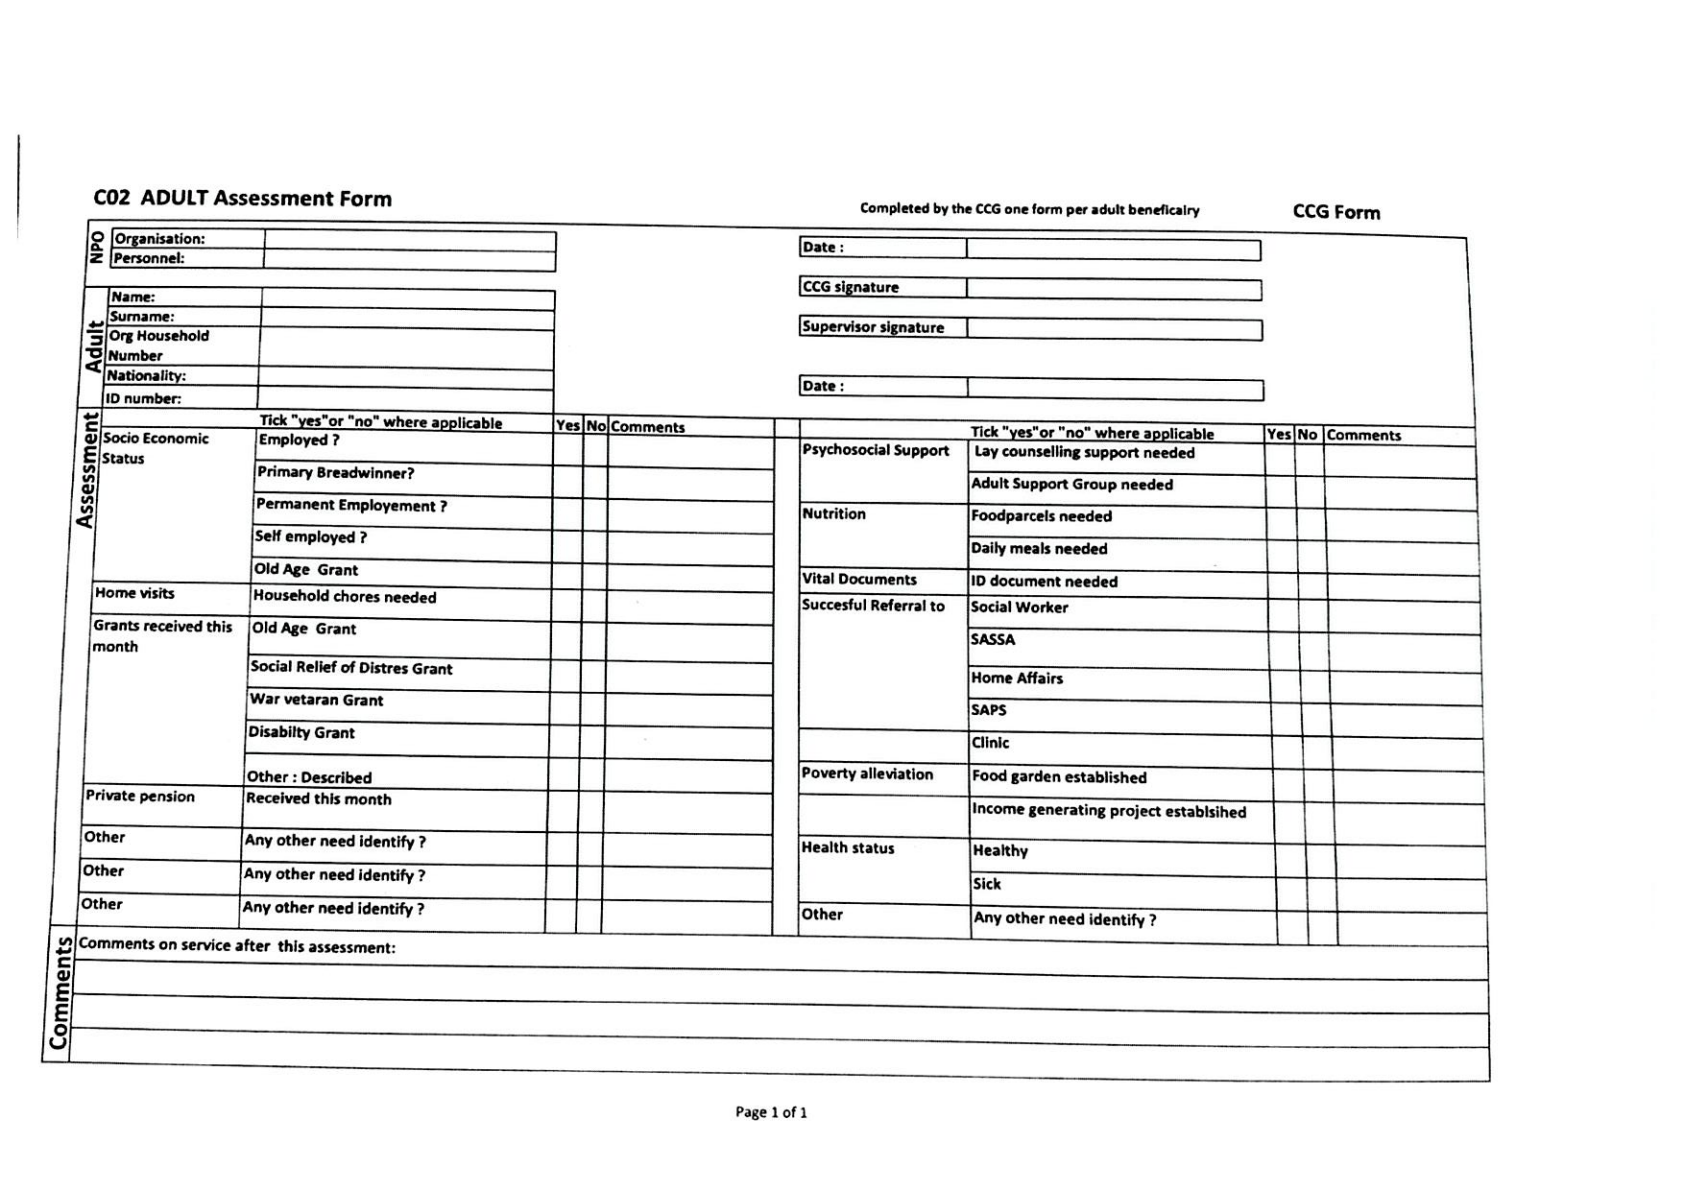
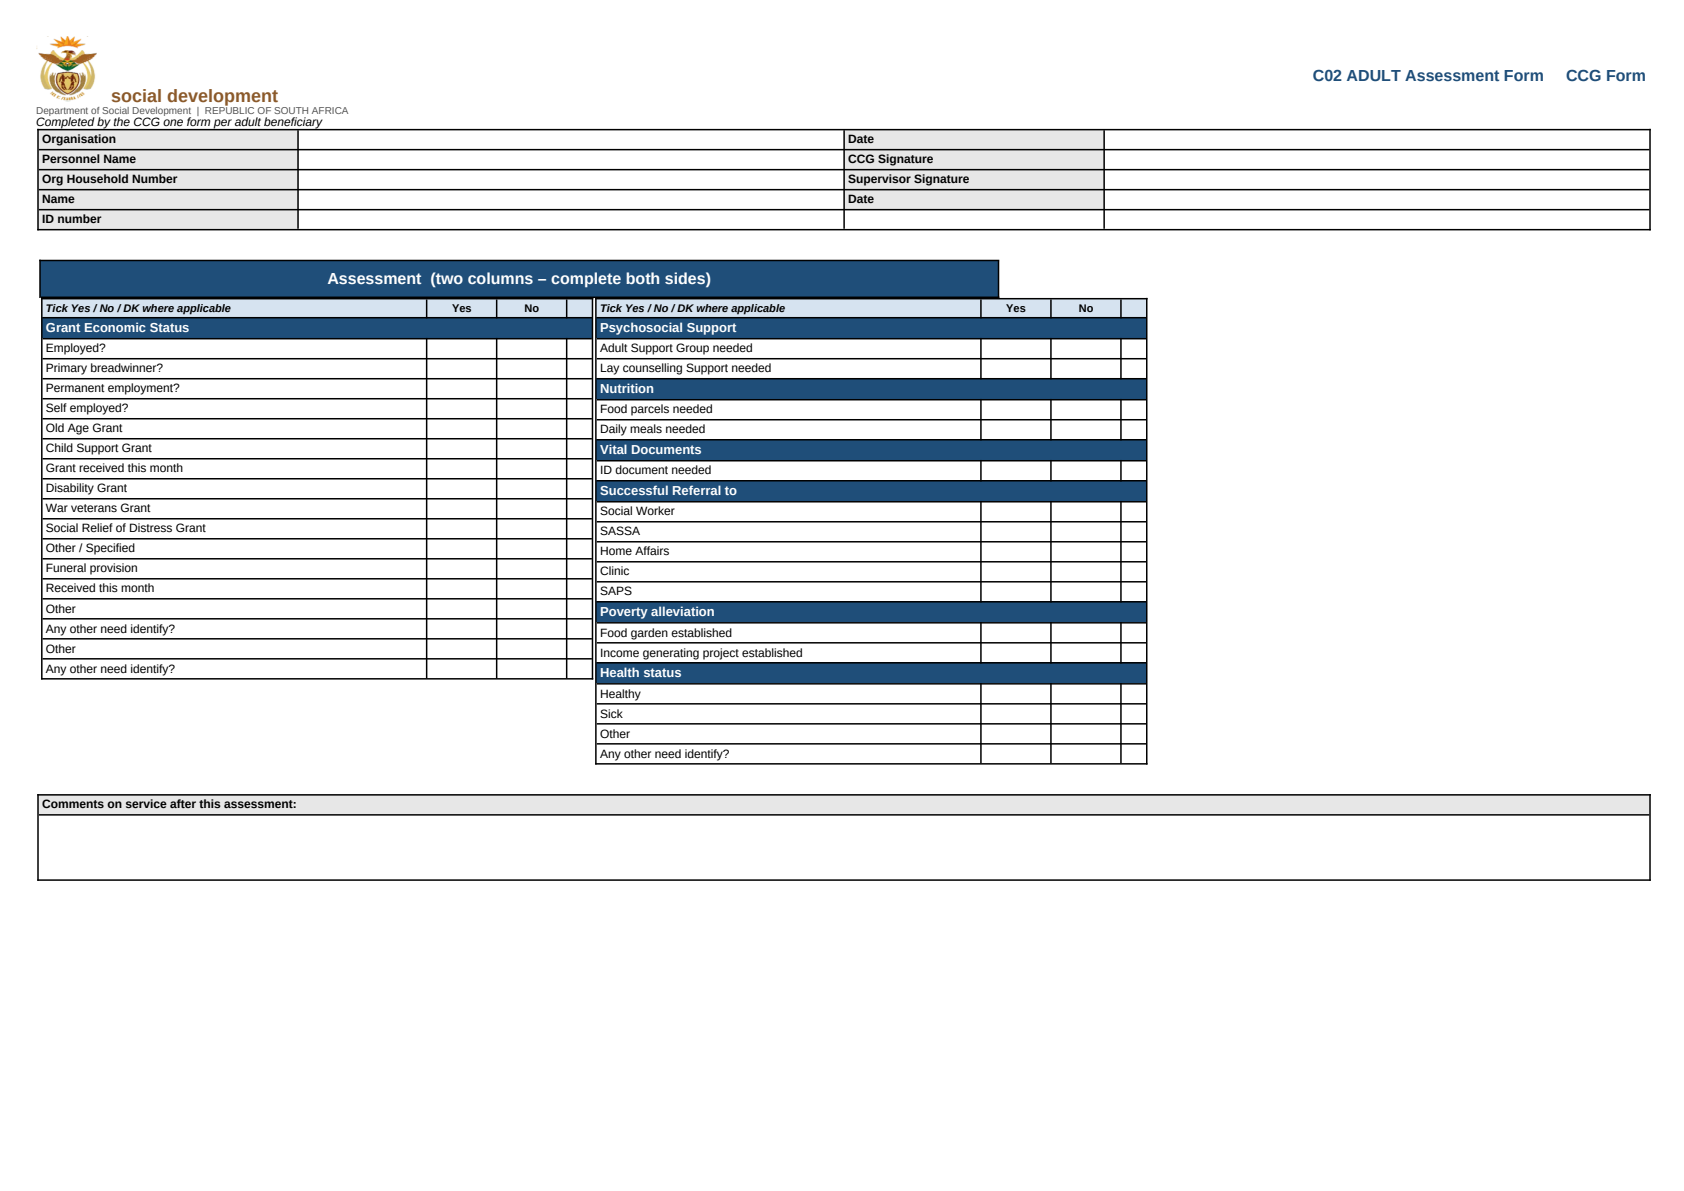
Phase 2 C02: Official Word Adult Assessment replaces NPO PDF
Print fills C02_Adult_Assessment_Form.docx; scan blanks and atlas geometry
come from that Word render. Assessment Yes/No/DK ticks stay for a later pass.

diff --git a/frontend/src/lib/print.js b/frontend/src/lib/print.js
@@ -11,6 +11,7 @@ export const DSD_FORMS = [
   { key: "full", label: "Full Case File", group: "Case file" },
   { key: "checklist", label: "Case File Checklist", group: "Case file" },
   { key: "c01", label: "C01 Household Details", group: "Intake & assessment" },
+  { key: "c02", label: "C02 Adult Assessment", group: "Intake & assessment" },
   { key: "intake", label: "CW 05 Intake Form", group: "Intake & assessment" },
   { key: "reporter", label: "CW 02 Reporter Form", group: "Intake & assessment" },
   { key: "assessment", label: "CW 09 Assessment, Planning & Contracting", group: "Intake & assessment" },

diff --git a/backend/core/word_forms.py b/backend/core/word_forms.py
@@ -1,7 +1,8 @@
 """Fill official DSD Word templates. Do not overlay the NPO PDF.
 
 The NPO case-management PDF is a file-order guide only. Print for C01 writes
-into ``docs/official/dsd-source/Official_C01_Template.docx``.
+into ``docs/official/dsd-source/Official_C01_Template.docx``. Print for C02
+writes into ``docs/official/dsd-source/C02_Adult_Assessment_Form.docx``.
 """
 from __future__ import annotations
 
@@ -9,9 +10,11 @@ from io import BytesIO
 from pathlib import Path
 
 from docx import Document
+from docx.table import _Cell
 
 REPO_ROOT = Path(__file__).resolve().parents[2]
 OFFICIAL_C01 = REPO_ROOT / 'docs' / 'official' / 'dsd-source' / 'Official_C01_Template.docx'
+OFFICIAL_C02 = REPO_ROOT / 'docs' / 'official' / 'dsd-source' / 'C02_Adult_Assessment_Form.docx'
 
 EMPTY_BOX = '☐'
 MARKED_BOX = '☑'
@@ -19,6 +22,15 @@ MARKED_BOX = '☑'
 
 def official_c01_path() -> Path:
     return OFFICIAL_C01
+
+
+def official_c02_path() -> Path:
+    return OFFICIAL_C02
+
+
+def _tc_cell(table, row_index: int, cell_index: int) -> _Cell:
+    """Return the real cell at (row, col) via XML — row.cells lies on C02 merges."""
+    return _Cell(table.rows[row_index]._tr.tc_lst[cell_index], table)
 
 
 def _clear_cell(cell, text: str = ''):
@@ -254,11 +266,61 @@ def fill_c01_docx(values: dict | None = None, template_path: Path | None = None)
     return buf.getvalue()
 
 
+def _adult_display_name(values: dict) -> str:
+    name = (values.get('caregiver.name') or '').strip()
+    surname = (values.get('caregiver.surname') or '').strip()
+    return ' '.join(part for part in (name, surname) if part)
+
+
+def _fill_c02_header(table, values: dict):
+    """Identity header on C02_Adult_Assessment_Form.docx (table 1)."""
+    org = (
+        values.get('__display.organisation')
+        or values.get('organisation.name')
+        or ''
+    )
+    personnel = values.get('__display.personnel') or ''
+    org_hh = values.get('household.org_household_number') or ''
+    full_name = _adult_display_name(values)
+    id_number = values.get('caregiver.id_number') or ''
+
+    _clear_cell(_tc_cell(table, 0, 1), org)
+    _clear_cell(_tc_cell(table, 1, 1), personnel)
+    _clear_cell(_tc_cell(table, 2, 1), org_hh)
+    _clear_cell(_tc_cell(table, 3, 1), full_name)
+    _clear_cell(_tc_cell(table, 4, 1), id_number)
+
+
+def fill_c02_docx(values: dict | None = None, template_path: Path | None = None) -> bytes:
+    """Return a filled Official C02 .docx (bytes) from atlas-style values.
+
+    Assessment Yes/No/DK grids stay blank for staff to tick on paper / later
+    atlas work. Identity header is filled from the caregiver file.
+    """
+    path = Path(template_path or official_c02_path())
+    if not path.exists():
+        raise FileNotFoundError(f'Official C02 template missing: {path}')
+    values = values or {}
+    doc = Document(str(path))
+    if len(doc.tables) < 2:
+        raise ValueError('Official C02 template does not have the expected header table')
+    _fill_c02_header(doc.tables[1], values)
+    buf = BytesIO()
+    doc.save(buf)
+    return buf.getvalue()
+
+
 def values_from_household(household) -> dict:
     """Atlas-style values plus free-text fields the Word sheet needs."""
     from .form_io import values_for_household
+    from .models import Organisation
 
     values = values_for_household(household)
+    org = Organisation.objects.first()
+    if org and not values.get('__display.organisation'):
+        values['__display.organisation'] = org.name or 'Sebueng Itumeleng'
+    elif not values.get('__display.organisation'):
+        values['__display.organisation'] = 'Sebueng Itumeleng'
     cg = getattr(household, 'caregiver', None)
     if cg:
         mapping = {

diff --git a/backend/core/tests/test_word_c02.py b/backend/core/tests/test_word_c02.py
@@ -1,0 +1,80 @@
+"""Phase 1–2: Official C02 prints as filled Word; blanks from the Word template."""
+from io import BytesIO
+from pathlib import Path
+
+from django.contrib.auth.models import Group, User
+from django.test import TestCase
+from docx import Document
+from docx.table import _Cell
+from rest_framework.authtoken.models import Token
+from rest_framework.test import APIClient
+
+from core.form_atlas import ATLAS_FORMS, fields_for
+from core.official_blanks import ATLAS_VERSION, blank_info
+from core.word_forms import fill_c02_docx, official_c02_path
+
+MOHOLOZA_C02 = {
+    '__display.organisation': 'Sebueng Itumeleng',
+    '__display.personnel': 'Kelebogile Maraba',
+    'household.org_household_number': '472',
+    'caregiver.name': 'Sisi Lettie',
+    'caregiver.surname': 'Moholoza',
+    'caregiver.id_number': '6511010326080',
+}
+
+
+class FillOfficialC02Tests(TestCase):
+    def test_template_file_is_present(self):
+        self.assertTrue(official_c02_path().exists())
+
+    def test_moholoza_identity_fills_the_word_header(self):
+        raw = fill_c02_docx(MOHOLOZA_C02)
+        doc = Document(BytesIO(raw))
+        table = doc.tables[1]
+        self.assertEqual(_Cell(table.rows[0]._tr.tc_lst[1], table).text.strip(), 'Sebueng Itumeleng')
+        self.assertEqual(_Cell(table.rows[1]._tr.tc_lst[1], table).text.strip(), 'Kelebogile Maraba')
+        self.assertEqual(_Cell(table.rows[2]._tr.tc_lst[1], table).text.strip(), '472')
+        self.assertEqual(_Cell(table.rows[3]._tr.tc_lst[1], table).text.strip(), 'Sisi Lettie Moholoza')
+        self.assertEqual(_Cell(table.rows[4]._tr.tc_lst[1], table).text.strip(), '6511010326080')
+
+
+class PrintC02WordTests(TestCase):
+    def setUp(self):
+        Group.objects.get_or_create(name='admin')
+        self.user = User.objects.create_user('c02printer', password='x')
+        self.user.groups.add(Group.objects.get(name='admin'))
+        self.client = APIClient()
+        self.client.credentials(HTTP_AUTHORIZATION=f'Token {Token.objects.create(user=self.user).key}')
+
+    def test_print_c02_downloads_a_docx_not_pdf_canvas(self):
+        created = self.client.post('/api/households/', {'town': 'Westonaria'}, format='json')
+        hid = created.data['id']
+        self.client.patch(
+            f'/api/households/{hid}/',
+            {'org_household_number': '472'},
+            format='json',
+        )
+        token = Token.objects.get(user=self.user).key
+        response = self.client.get(f'/api/print/c02/?household_id={hid}&token={token}')
+        self.assertEqual(response.status_code, 200)
+        self.assertIn(
+            'application/vnd.openxmlformats-officedocument.wordprocessingml.document',
+            response['Content-Type'],
+        )
+        self.assertNotIn(b'official-payload', response.content)
+        doc = Document(BytesIO(response.content))
+        self.assertGreaterEqual(len(doc.tables), 2)
+
+
+class C02WordAtlasTests(TestCase):
+    def test_c02_uses_word_geometry_and_blank(self):
+        self.assertEqual(ATLAS_FORMS['c02']['geometry'], 'word')
+        info = blank_info('c02', 0)
+        self.assertEqual(info.get('source'), 'docx')
+        self.assertIn('C02_Adult_Assessment_Form.docx', info.get('source_docx') or '')
+        self.assertIn('word-c01-c02', ATLAS_VERSION)
+        targets = {f['target'] for f in fields_for('c02')}
+        self.assertIn('caregiver.name', targets)
+        self.assertIn('caregiver.id_number', targets)
+        self.assertIn('household.org_household_number', targets)
+        self.assertNotIn('caregiver.nationality', targets)

diff --git a/backend/core/form_atlas.py b/backend/core/form_atlas.py
@@ -1,8 +1,8 @@
 """One field atlas for fill, print, and Scan Intake.
 
 Boxes are normalised 0–1 on the official blank PNG (same file print uses).
-C01 geometry is measured on Official_C01_Template.docx blanks. Other forms
-still use the NPO PDF blanks. Do not rename field labels.
+C01 and C02 geometry is measured on Official Word blanks. Other forms still
+use the NPO PDF blanks. Do not rename field labels.
 """
 from functools import lru_cache
 
@@ -34,9 +34,10 @@ ATLAS_FORMS = {
         'official_title': 'C02 ADULT Assessment Form',
         'header': 'ccg',
         'orientation': 'landscape',
-        'keywords': ['C02', 'C 02', 'ADULT ASSESSMENT', 'CCG FORM'],
+        'keywords': ['C02', 'C 02', 'ADULT ASSESSMENT', 'ADULT Assessment', 'CCG FORM'],
         'checklist_item': ('intake_form', 'C02'),
-        'geometry': 'pdf',
+        # Boxes measured on C02_Adult_Assessment_Form.docx blank PNG (scale 2.0).
+        'geometry': 'word',
         'identity_only': True,
         # C02 is the adult assessment of the C01 head of household
         # (caregiver), not an extra member. Other adults already sit on
@@ -375,19 +376,19 @@ def _build_fields():
         _f('__display.personnel', 'Name', 1, (0.0369, 0.1229, 0.3518, 0.1425), 'printed'),
     ]
 
+    # C02 identity header measured on C02_Adult_Assessment_Form.docx blank
+    # (scale 2.0). Word has one Name cell (given + surname written together).
     c02 = [
         _f('__display.organisation', 'Organisation', 0,
-           _inset((0.1574, 0.2090, 0.3290, 0.2261), 0.04, 0.16), 'printed'),
-        _f('caregiver.name', 'Name', 0,
-           _inset((0.1574, 0.2429, 0.3290, 0.2597), 0.04, 0.16), 'handwrite'),
-        _f('caregiver.surname', 'Surname', 0,
-           _inset((0.1556, 0.2589, 0.3290, 0.2765), 0.04, 0.16), 'handwrite'),
+           _word_cell((0.1150, 0.1100, 0.4900, 0.1270)), 'printed'),
+        _f('__display.personnel', 'Personnel Name', 0,
+           _word_cell((0.1150, 0.1270, 0.4900, 0.1440)), 'printed'),
         _f('household.org_household_number', 'Org Household Number', 0,
-           _inset((0.1544, 0.2757, 0.3284, 0.3102), 0.04, 0.12), 'printed'),
-        _f('caregiver.nationality', 'Nationality', 0,
-           _inset((0.1544, 0.3093, 0.3278, 0.3262), 0.04, 0.16), 'handwrite'),
+           _word_cell((0.1150, 0.1440, 0.4900, 0.1600)), 'printed'),
+        _f('caregiver.name', 'Name', 0,
+           _word_cell((0.1150, 0.1600, 0.4900, 0.1770)), 'handwrite'),
         _id_cells('caregiver.id_number', 'ID number', 0,
-                  *_inset((0.1538, 0.3253, 0.3278, 0.3464), 0.03, 0.12)),
+                  *_word_cell((0.1150, 0.1780, 0.4900, 0.2150), x=0.01)),
     ]
     # C03 is the child beneficiary sheet. Identity writes to a member slot
     # (allocated at save), never to caregiver.* — that is the head of household

diff --git a/backend/core/form_views.py b/backend/core/form_views.py
@@ -82,7 +82,7 @@ class OfficialFormValuesView(APIView):
 
 
 def print_official(request, form):
-    """Official print: C01 is a filled Word file; other atlas forms stay on canvas for now."""
+    """Official print: C01/C02 are filled Word files; other atlas forms stay on canvas for now."""
     user = _auth_user(request)
     if not user:
         return HttpResponse('Authentication required.', status=401)
@@ -93,15 +93,21 @@ def print_official(request, form):
     if not household:
         raise Http404('No household in scope')
 
-    # Phase 1: C01 prints into Official_C01_Template.docx — never the NPO PDF.
-    if form == 'c01':
+    # Phase 1+: C01 and C02 print into official Word templates — never the NPO PDF.
+    if form in ('c01', 'c02'):
         from django.http import HttpResponse as DjangoResponse
-        from .word_forms import fill_c01_docx, values_from_household
+        from .word_forms import fill_c01_docx, fill_c02_docx, values_from_household
 
         values = values_from_household(household)
-        payload = fill_c01_docx(values)
-        log_action(user, 'printed', f'Printed official C01 Word for Household #{household.pk}')
-        filename = f"C01_{household.org_household_number or household.pk}.docx"
+        if form == 'c01':
+            payload = fill_c01_docx(values)
+            filename = f"C01_{household.org_household_number or household.pk}.docx"
+            label = 'C01'
+        else:
+            payload = fill_c02_docx(values)
+            filename = f"C02_{household.org_household_number or household.pk}.docx"
+            label = 'C02'
+        log_action(user, 'printed', f'Printed official {label} Word for Household #{household.pk}')
         response = DjangoResponse(
             payload,
             content_type='application/vnd.openxmlformats-officedocument.wordprocessingml.document',

diff --git a/backend/core/tests/test_form_atlas.py b/backend/core/tests/test_form_atlas.py
@@ -29,13 +29,16 @@ class AtlasGeometryTests(TestCase):
 
     def test_c01_uses_word_blanks_and_intake_uses_pdf(self):
         self.assertTrue(has_geometry('c01'))
+        self.assertTrue(has_geometry('c02'))
         self.assertTrue(has_geometry('intake'))
         self.assertEqual(form_meta('c01')['geometry'], 'word')
+        self.assertEqual(form_meta('c02')['geometry'], 'word')
         self.assertEqual(form_meta('c01')['pages'], 2)
         self.assertEqual(form_meta('intake')['pages'], 3)
         self.assertTrue(any(f['target'] == 'caregiver.id_number' and f['kind'] == 'sa_id' for f in fields_for('c01')))
         self.assertEqual(fields_for('c01', 0)[0]['label'], 'Org Household Nr')
         self.assertEqual(fields_for('intake', 0)[1]['label'], 'Primary Client Surname')
+        self.assertEqual(load_meta()['pages']['c02:0'].get('source'), 'docx')
 
     def test_blank_png_hash_matches_repo_files(self):
         meta = load_meta()
@@ -133,6 +136,13 @@ class OfficialFormApiTests(TestCase):
             c01['Content-Type'],
         )
         self.assertNotIn(b'official-payload', c01.content)
+        c02 = self.client.get(f'/api/print/c02/?household_id={hid}&token={token}')
+        self.assertEqual(c02.status_code, 200)
+        self.assertIn(
+            'application/vnd.openxmlformats-officedocument.wordprocessingml.document',
+            c02['Content-Type'],
+        )
+        self.assertNotIn(b'official-payload', c02.content)
         cow = self.client.get(f'/api/print/cow2_note/?household_id={hid}&token={token}')
         self.assertEqual(cow.status_code, 200)
         self.assertIn(b'official-payload', cow.content)

diff --git a/backend/core/tests/test_phase6.py b/backend/core/tests/test_phase6.py
@@ -87,10 +87,12 @@ class C03MemberTargetingTests(TestCase):
         )
 
     def test_c02_atlas_stays_on_the_caregiver(self):
+        # Official Word C02 has one Name cell (given+surname together), not a
+        # separate Surname / Nationality row like the old NPO PDF blank.
         identity = {f['target'] for f in fields_for('c02') if f['target'].startswith('caregiver.')}
         self.assertIn('caregiver.name', identity)
-        self.assertIn('caregiver.surname', identity)
         self.assertIn('caregiver.id_number', identity)
+        self.assertNotIn('caregiver.nationality', identity)
         self.assertFalse(any(f['target'].startswith('member.') for f in fields_for('c02')))
 
     def test_c03_only_scan_creates_a_member_not_a_caregiver(self):

diff --git a/backend/core/official_blanks.py b/backend/core/official_blanks.py
@@ -1,7 +1,8 @@
 """Canonical blank pages for fill, print, and Scan Intake.
 
-C01 blanks are rendered from Official_C01_Template.docx. Other forms still
-use the NPO case-management PDF pages. Never invent a second HTML layout.
+C01 blanks are rendered from Official_C01_Template.docx. C02 blanks are
+rendered from C02_Adult_Assessment_Form.docx. Other forms still use the NPO
+case-management PDF pages. Never invent a second HTML layout.
 """
 from __future__ import annotations
 
@@ -11,7 +12,7 @@ from pathlib import Path
 
 BLANKS_DIR = Path(__file__).resolve().parent / 'official_blanks'
 META_PATH = BLANKS_DIR / 'blanks.json'
-ATLAS_VERSION = 'word-c01-v2.0'
+ATLAS_VERSION = 'word-c01-c02-v2.1'
 
 
 def load_meta():

diff --git a/docs/official/PRINT_TEMPLATE_INVENTORY.md b/docs/official/PRINT_TEMPLATE_INVENTORY.md
@@ -6,22 +6,20 @@ The full field inventory is [`WORD_TEMPLATES.md`](WORD_TEMPLATES.md).
 `NPO_case_management_file.pdf` is a **guide** for how a household file is
 assembled. Do **not** write, print, or scan by overlaying that PDF.
 
-**Phase 1 (C01 print):** filling `Official_C01_Template.docx` and downloading
-that Word file. Scan Intake still aligns photos to the old PDF-derived PNG
-blanks — that is why real C01 photos can look “unreadable” / misclassified
-until Phase 2 rebuilds scan blanks from the Word template.
+**Phase 1 (C01 + C02 print):** filling `Official_C01_Template.docx` /
+`C02_Adult_Assessment_Form.docx` and downloading those Word files.
 
-The current product still stamps frozen blank PNGs in
-`backend/core/official_blanks/` for forms other than C01 print
-(`ATLAS_VERSION` `npo-pdf-v1.3`) until those are rebuilt onto native Word.
+**Phase 2 (C01 + C02 scan blanks):** blank PNGs and atlas boxes are measured on
+those Word renders (`ATLAS_VERSION` `word-c01-c02-v2.1`). Other forms still use
+NPO PDF-derived blanks until their Word phases land.
 
-## Atlas forms (current overlay — to be replaced by Word fill)
+## Atlas forms
 
 | Code | Official Word source | PDF pp. (guide only) | Blank PNG | Verdict |
 | --- | --- | --- | --- | --- |
-| `c01` | `dsd-source/Official_C01_Template.docx` | 4–5 | `c01_p0.png`, `c01_p1.png` | **Phase 1 print fills the Word file** (download `.docx`). Scan atlas still uses PDF-derived PNGs until Phase 2 |
-| `intake` (CW 05) | `dsd-source/CW_05_Intake_Form_28082019.docx` | 8–10 | `intake_p0.png`–`p2` | Same |
-| `c02` | `dsd-source/C02_Adult_Assessment_Form.docx` | 6 | `c02_p0.png` | Word has the full Yes/No/DK assessment; atlas extract is identity only |
+| `c01` | `dsd-source/Official_C01_Template.docx` | 4–5 | `c01_p0.png`, `c01_p1.png` | **Word print + Word blanks** |
+| `intake` (CW 05) | `dsd-source/CW_05_Intake_Form_28082019.docx` | 8–10 | `intake_p0.png`–`p2` | Still PDF blank / canvas until a CW 05 Word phase |
+| `c02` | `dsd-source/C02_Adult_Assessment_Form.docx` | 6 | `c02_p0.png` | **Word print + Word blanks**; atlas identity only (Yes/No/DK later) |
 | `c03` | `dsd-source/C03_Child_Beneficiary_Assessment.docx` | 7 | `c03_p0.png` | Word has the full child assessment ticks; atlas extract is identity only (`member.N`) |
 | `cow2_note` | `dsd-source/COW_2_Process_note_04042019.doc` | Word original | `cow2_p0.png`, `cow2_p1.png` | Overlay on official blank; narratives stay attach-only |
 

diff --git a/docs/official/WORD_TEMPLATES.md b/docs/official/WORD_TEMPLATES.md
@@ -86,7 +86,9 @@ established.
 
 Comments on service after this assessment.
 
-Scan atlas today maps identity only (`caregiver.*`). Assessment ticks are in
+Scan atlas today maps identity only (`caregiver.name`, `caregiver.id_number`,
+org household number, organisation, personnel). The Official Word sheet has a
+single Name cell (no separate Surname / Nationality). Assessment ticks are in
 the Word file and should be mapped later.
 
 ---
